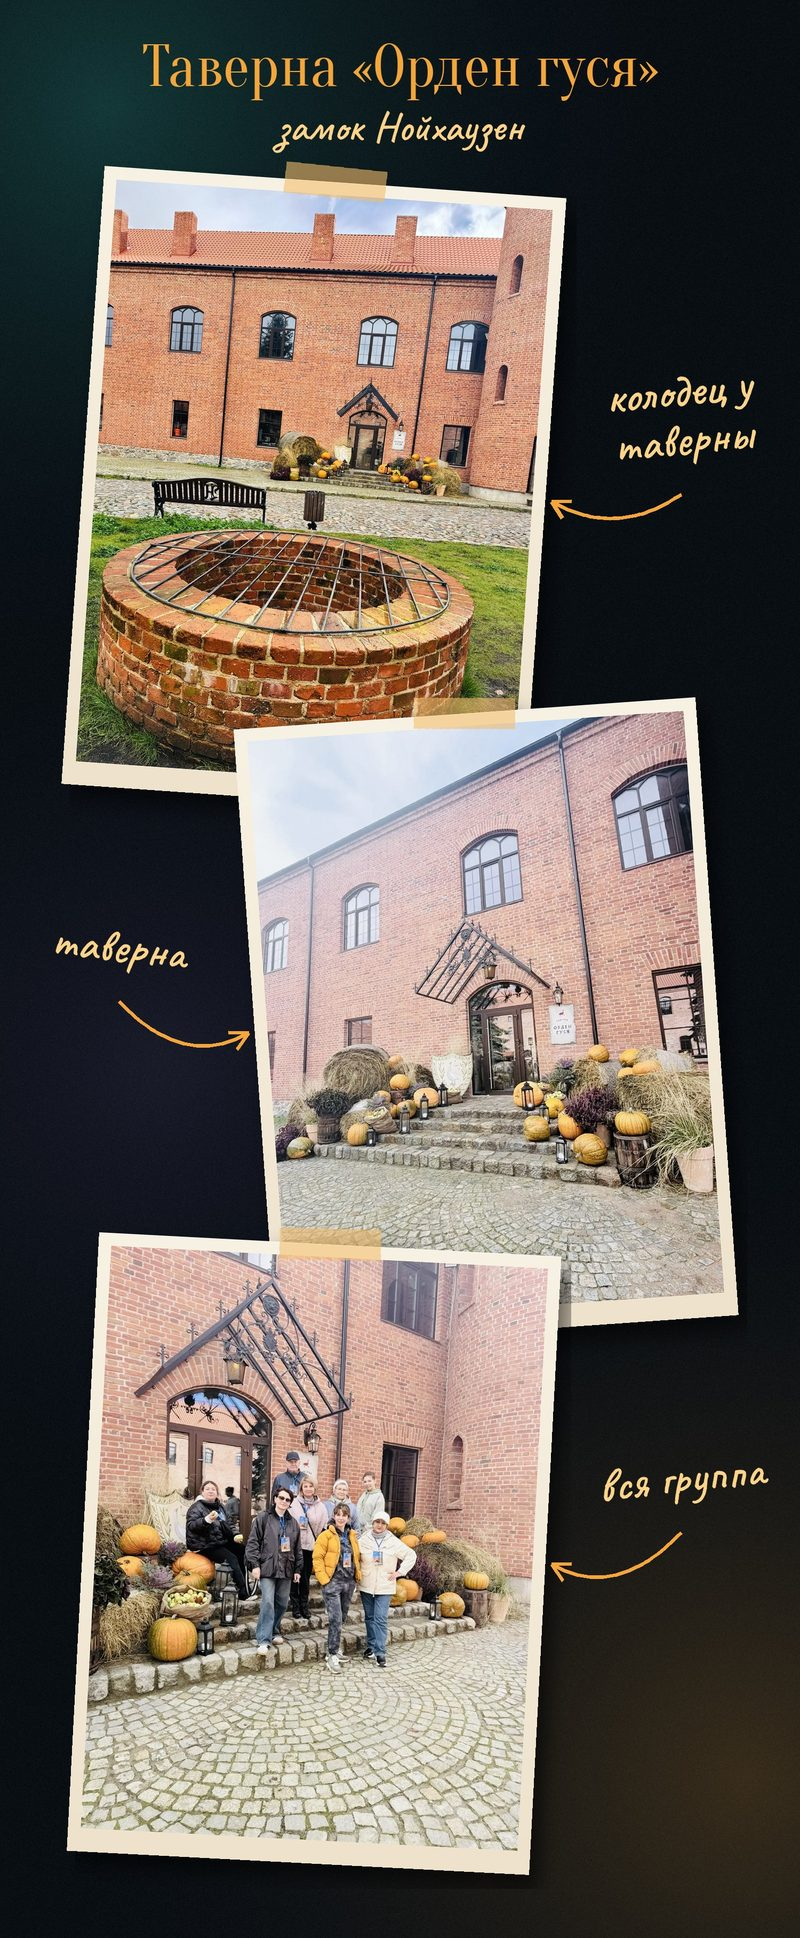
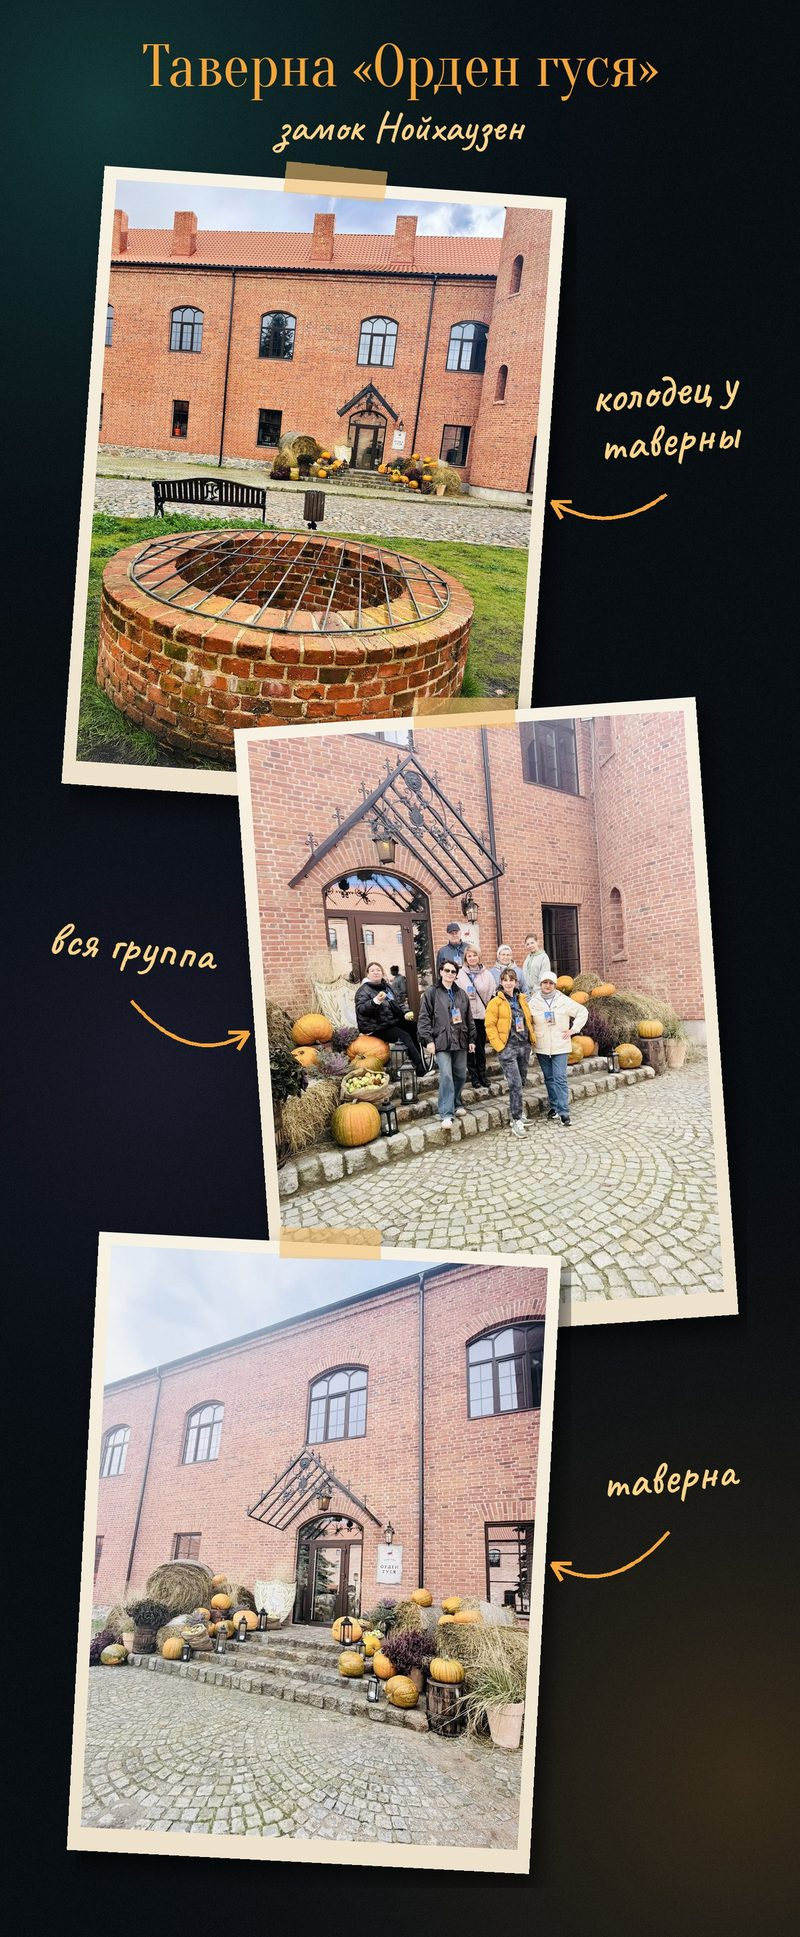
Альбом «Калининград»: страница «Таверна «Орден гуся»» — группа в центре
По просьбе: сверху «колодец у таверны», в центре «вся группа», снизу «таверна».

Claude-Session: https://claude.ai/code/session_01BUmNQ2Kk9fTi5P6tnA3gYJ

diff --git a/kaliningrad/album/index.html b/kaliningrad/album/index.html
@@ -686,7 +686,7 @@ body.picking .wrap{padding-bottom:calc(var(--nav-h) + 230px + env(safe-area-inse
  {"id": "d2-23", "day": 2, "src": "photos/d2-23.jpg", "thumb": "photos/t/d2-23.jpg", "w": 2000, "h": 452, "place": "neuh", "title": "Панорама двора замка", "date": "2026-10-12"},
  {"id": "d2-87", "day": 2, "src": "photos/d2-87.jpg?v=2", "thumb": "photos/t/d2-87.jpg?v=2", "w": 1200, "h": 2906, "place": "neuh", "title": "Рассказ гида", "date": "2026-10-12", "collage": true},
  {"id": "d2-88", "day": 2, "src": "photos/d2-88.jpg?v=2", "thumb": "photos/t/d2-88.jpg?v=2", "w": 1200, "h": 2906, "place": "neuh", "title": "Уголки замка", "date": "2026-10-12", "collage": true},
- {"id": "d2-89", "day": 2, "src": "photos/d2-89.jpg", "thumb": "photos/t/d2-89.jpg", "w": 1200, "h": 2906, "place": "neuh", "title": "Таверна «Орден гуся»", "date": "2026-10-12", "collage": true},
+ {"id": "d2-89", "day": 2, "src": "photos/d2-89.jpg?v=2", "thumb": "photos/t/d2-89.jpg?v=2", "w": 1200, "h": 2906, "place": "neuh", "title": "Таверна «Орден гуся»", "date": "2026-10-12", "collage": true},
  {"id": "d2-90", "day": 2, "src": "photos/d2-90.jpg", "thumb": "photos/t/d2-90.jpg", "w": 1200, "h": 2906, "place": "neuh", "title": "Осень в замке", "date": "2026-10-12", "collage": true},
  {"id": "d2-32", "day": 2, "src": "photos/d2-32.jpg", "thumb": "photos/t/d2-32.jpg", "w": 1500, "h": 2000, "place": "neuh", "title": "С мамулей у парка альпак, чёрно-белое", "date": "2026-10-12"},
  {"id": "d2-91", "day": 2, "src": "photos/d2-91.jpg", "thumb": "photos/t/d2-91.jpg", "w": 1200, "h": 2906, "place": "neuh", "title": "У колодца Нойхаузена", "date": "2026-10-12", "collage": true},
